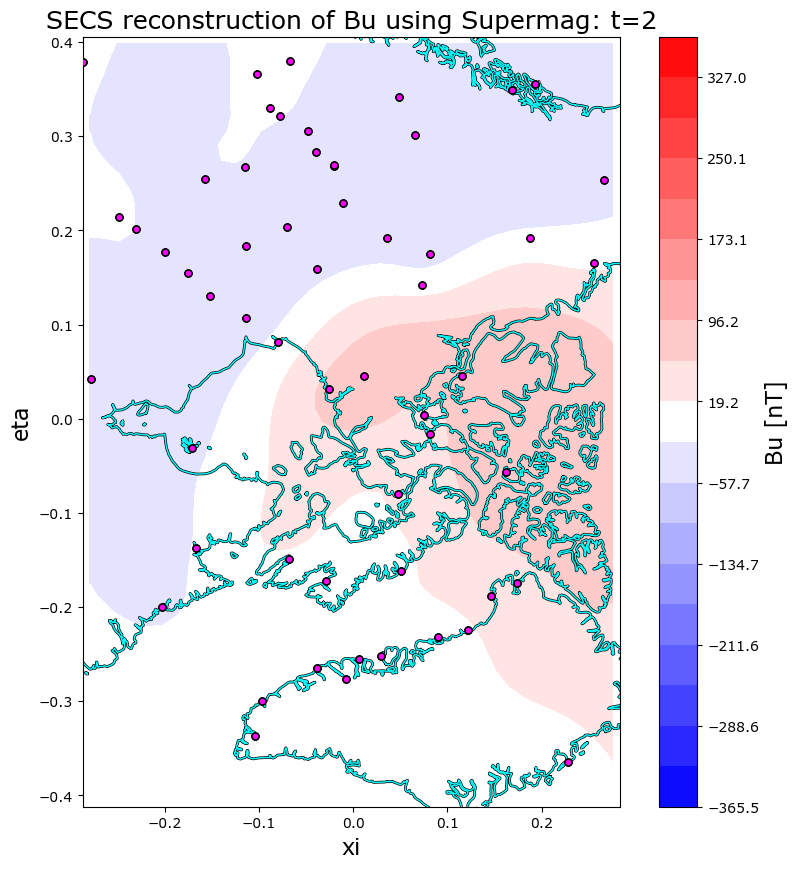
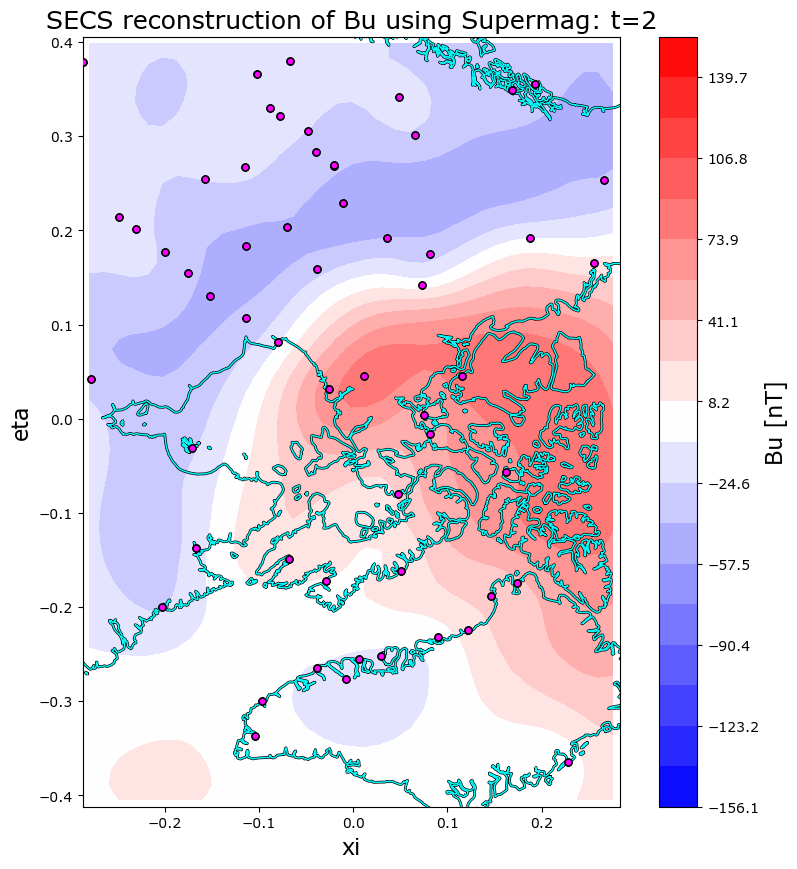
The fake induction approahc is now finished. I find it strange. First a SECS fit, then adding the predicted dBdt

diff --git a/dBdt_window_smoother_test.py b/dBdt_window_smoother_test.py
@@ -74,7 +74,7 @@ ampere    = pd.read_hdf(iridiumfn)
 supermag  = pd.read_hdf(supermagfn)
 superdarn = pd.read_hdf(superdarnfn)
 
-times = pd.date_range('2012-04-05 00:00', '2012-04-05 23:59', freq = '3Min')[:100] # Limiting testing to the first 100, instead of all 480 times
+times = pd.date_range('2012-04-05 00:00', '2012-04-05 23:59', freq = '3Min')[:20] # Limiting testing to the first 100, instead of all 480 times
 DT    = timedelta(seconds = 2 * 60) # will select data from +- DT
 
 #%% Define grid
@@ -195,53 +195,57 @@ for i, t in tqdm(enumerate(times), total=times.size):
 
 #%% Step 3: E induction
 
-# Something with window size
-# Loop over time while sliding window
+w_size = 3
+ms = np.zeros((grid.xi_mesh.size, times.size))
 
+for i, t in tqdm(enumerate(times), total=times.size):
     
-#%% Combine steady-state stuff
-
-G_ss = scipy.linalg.block_diag(*Gs)
-d_ss = np.hstack(ds)
-w_ss = np.hstack(ws)
-
-#%% Combine temporal stuff
-
-for i in range(len(GsBu)-1):
-    G_bs_i = np.zeros((grid.size, grid.xi_mesh.size*(times.size)))
-
-    G_bs_i[:, i*grid.xi_mesh.size:(i+1)*grid.xi_mesh.size] = -1*GsBu[i]
-    try:
-        G_bs_i[:, (i+1)*grid.xi_mesh.size:(i+2)*grid.xi_mesh.size] = GsBu[i+1]
-    except:
-        G_bs_i[:, (i+1)*grid.xi_mesh.size:] = GsBu[i+1]
+    j_mid = w_size + 0 # The window is 2*w_size+1 wide.
     
-    if i == 0:
-        G_bs = G_bs_i + 0
-    else:
-        G_bs = np.vstack((G_bs, G_bs_i))
+    i_start = i - w_size # The first timestep 
+    i_stop = i + w_size # The last timestep
+    
+    # Ensure first timestep cannot be smaller than 0
+    if i_start < 0:
+        j_mid += i_start # If, e.g., -1 set to 0 and move j_mid down by 1.
+        i_start = 0
+    
+    # Ensure last timestep does not exceed times.size-1.
+    if i_stop > (times.size-1):
+        j_mid -= i_stop - times.size-1 # If, e.g., 2 over max set to max and move j_mid down by 2.
+        i_stop = times.size-1 # 1 is added later as last index is exclusive. Silly Python.
+    
+    nt = i_stop-i_start+1 # Number of timesteps included in this window
+    
+    # Generate matrices - Steady state
+    G_ss = scipy.linalg.block_diag(*Gs[i_start:i_stop+1])
+    d_ss = np.hstack(ds[i_start:i_stop+1])
+    w_ss = np.hstack(ws[i_start:i_stop+1])
 
-d_bs = dBudt_pred.flatten()
+    # Generate matrices - Temporal
+    G_t = np.zeros(((nt-1)*grid.size, nt*grid.xi_mesh.size)) # Allocate space
+    G_t[:, 0:(nt-1)*grid.xi_mesh.size]             = - scipy.linalg.block_diag(*GsBu[i_start:i_stop])
+    G_t[:, grid.xi_mesh.size:nt*grid.xi_mesh.size] = scipy.linalg.block_diag(*GsBu[i_start+1:i_stop+1])
+    
+    d_t = dBudt_pred[:, :, i_start:i_stop].flatten()
+    
+    w_t = np.ones(d_t.size) / (1*1e-9)**2    
 
-w_bs = np.ones(d_bs.size) / (1*1e-9)**2
+    # Combine matrices
+    G = np.vstack((G_ss, G_t))
+    d = np.hstack((d_ss, d_t))
+    w = np.hstack((w_ss, w_t))
 
-#%% Combine
+    # Solve inverse problem
+    GTG = G.T.dot(np.diag(w)).dot(G)
+    GTd = G.T.dot(np.diag(w)).dot(d)
 
-G = np.vstack((G_ss, G_bs))
-d = np.hstack((d_ss, d_bs))
-w = np.hstack((w_ss, w_bs))
+    gtgmag = np.median(abs(np.diag(GTG)))
 
-#%%
-
-GTG = G.T.dot(np.diag(w)).dot(G)
-GTd = G.T.dot(np.diag(w)).dot(d)
-
-gtgmag = np.median(abs(np.diag(GTG)))
-
-m = scipy.linalg.solve(GTG + 2e0*gtgmag*np.eye(GTG.shape[0]), GTd)
-ms = m.reshape((times.size, grid.xi_mesh.size)).T
-
-#%%
+    m = scipy.linalg.solve(GTG + 2e0*gtgmag*np.eye(GTG.shape[0]), GTd)
+    ms[:, i] = m.reshape((nt, grid.xi_mesh.size)).T[:, j_mid]
+    
+#%% Step 4: Visualization
 
 Bu_org = np.zeros((grid.xi_mesh.size, times.size))
 Bu_new = np.zeros((grid.xi_mesh.size, times.size))
@@ -262,7 +266,7 @@ for i, t in tqdm(enumerate(times)):
     model.add_data(amp_data, sm_data, sd_data)
     gtg, ltl = model.run_inversion(l1 = 2, l2 = 0)
 
-    savepath = '/scratch/BCSS-DAG Dropbox/Michael Madelaire/work/projects/lompe_induction_cheat/figures/lompe/'
+    savepath = path_out + 'figures/lompe/'
     savefile = savepath + str(t).replace(' ','_').replace(':','')
     lompe.lompeplot(model, include_data = True, time = t, apex = apex, savekw = {'fname': savefile, 'dpi' : 200})
     
@@ -270,7 +274,7 @@ for i, t in tqdm(enumerate(times)):
     Bu_org[:, i] = Bu
     
     model.m = ms[:, i]
-    savepath = '/scratch/BCSS-DAG Dropbox/Michael Madelaire/work/projects/lompe_induction_cheat/figures/lompe_dbdt/'
+    savepath = path_out + 'figures/lompe_dbdt/'
     savefile = savepath + str(t).replace(' ','_').replace(':','')
     lompe.lompeplot(model, include_data = True, time = t, apex = apex, savekw = {'fname': savefile, 'dpi' : 200})
     
@@ -287,13 +291,11 @@ dBu_new = np.zeros((Bu_org.shape[0], Bu_org.shape[1]-1))
 for i in range(dBu_org.shape[1]):
     dBu_org[:, i] = Bu_org[:, i+1] - Bu_org[:, i]
     dBu_new[:, i] = Bu_new[:, i+1] - Bu_new[:, i]
-#dBu_org = np.diff(Bu_org, axis=1)
-#dBu_new = np.diff(Bu_new, axis=1)
 
 vmax = np.max(abs(np.vstack((dBu_org, dBu_new))))
 vmax = np.max([vmax, np.max(abs(dBudt_pred))])
 
-clvls = 10**np.linspace(-vmax, vmax, 40)
+clvls = np.linspace(-vmax, vmax, 40)
 
 plt.ioff()
 for i in range(times.size-1):
@@ -301,170 +303,22 @@ for i in range(times.size-1):
     axs[0].contourf(grid.xi_mesh, grid.eta_mesh, dBu_org[:, i].reshape(grid.xi_mesh.shape), levels=clvls, cmap='bwr')
     axs[1].contourf(grid.xi_mesh, grid.eta_mesh, dBu_new[:, i].reshape(grid.xi_mesh.shape), levels=clvls, cmap='bwr')
     axs[2].contourf(grid.xi, grid.eta, dBudt_pred[:, :, i], levels=clvls, cmap='bwr')
-    plt.savefig('/scratch/BCSS-DAG Dropbox/Michael Madelaire/work/temp_storage/dBu_comp/{}.png'.format(i), bbox_inches='tight')
+    plt.savefig(path_out + 'figures/dBu_comp/{}.png'.format(i), bbox_inches='tight')
     plt.close('all')
 plt.ion()
 
 #%%
-'''
-#%%
-plt.ioff()
-
-conductance_functions = True
-
-event = '2012-04-05'
-savepath = '/scratch/BCSS-DAG Dropbox/Michael Madelaire/work/projects/lompe_induction_cheat/figures/'
-apex = apexpy.Apex(int(event[0:4]), refh = 110)
-
-supermagfn = '/scratch/BCSS-DAG Dropbox/Michael Madelaire/work/code/standard_lompe/lompe/examples/sample_dataset/20120405_supermag.h5'
-superdarnfn = '/scratch/BCSS-DAG Dropbox/Michael Madelaire/work/code/standard_lompe/lompe/examples/sample_dataset/20120405_superdarn_grdmap.h5'
-iridiumfn = '/scratch/BCSS-DAG Dropbox/Michael Madelaire/work/code/standard_lompe/lompe/examples/sample_dataset/20120405_iridium.h5'
-
-# set up grid
-position = (-90, 65) # lon, lat
-orientation = (-1, 2) # east, north
-L, W, Lres, Wres = 4200e3, 7000e3, 100.e3, 100.e3 # dimensions and resolution of grid
-grid = lompe.cs.CSgrid(lompe.cs.CSprojection(position, orientation), L, W, Lres, Wres, R = 6481.2e3)
-
-# load ampere, supermag, and superdarn data from 2012-05-05
-ampere    = pd.read_hdf(iridiumfn)
-supermag  = pd.read_hdf(supermagfn)
-superdarn = pd.read_hdf(superdarnfn)
-
-# these files contain entire day. Function to select from a smaller time interval is needed:
-def prepare_data(t0, t1):
-    """ get data from correct time period """
-    # prepare ampere
-    amp = ampere[(ampere.time >= t0) & (ampere.time <= t1)]
-    B = np.vstack((amp.B_e.values, amp.B_n.values, amp.B_r.values))
-    coords = np.vstack((amp.lon.values, amp.lat.values, amp.r.values))
-    amp_data = lompe.Data(B * 1e-9, coords, datatype = 'space_mag_fac', error = 30e-9, iweight=1.0)
-
-    # prepare supermag
-    sm = supermag[t0:t1]
-    B = np.vstack((sm.Be.values, sm.Bn.values, sm.Bu.values))
-    coords = np.vstack((sm.lon.values, sm.lat.values))
-    sm_data = lompe.Data(B * 1e-9, coords, datatype = 'ground_mag', error = 10e-9, iweight=0.4)
-
-    # prepare superdarn
-    sd = superdarn.loc[(superdarn.index >= t0) & (superdarn.index <= t1)]
-    vlos = sd['vlos'].values
-    coords = np.vstack((sd['glon'].values, sd['glat'].values))
-    los  = np.vstack((sd['le'].values, sd['ln'].values))
-    sd_data = lompe.Data(vlos, coordinates = coords, LOS = los, datatype = 'convection', error = 50, iweight=1.0)
-    
-    return amp_data, sm_data, sd_data
-
-# get figures from entire day and save somewhere
-
-# times during entire day
-times = pd.date_range('2012-04-05 00:00', '2012-04-05 23:59', freq = '3Min')
-DT = timedelta(seconds = 2 * 60) # will select data from +- DT
-
-
-Kp = 4 # for Hardy conductance model
-SH = lambda lon = grid.lon, lat = grid.lat: hardy_EUV(lon, lat, 5, times[0], 'hall'    )
-SP = lambda lon = grid.lon, lat = grid.lat: hardy_EUV(lon, lat, 5, times[0], 'pedersen')
-model = lompe.Emodel(grid, Hall_Pedersen_conductance = (SH, SP))
-
-
-    
-# loop through times and save
-for t in times[1:]:
-    print(t)
-    
-    SH = lambda lon = grid.lon, lat = grid.lat: hardy_EUV(lon, lat, 5, t, 'hall'    )
-    SP = lambda lon = grid.lon, lat = grid.lat: hardy_EUV(lon, lat, 5, t, 'pedersen')
-
-    model.clear_model(Hall_Pedersen_conductance = (SH, SP)) # reset
-    
-    amp_data, sm_data, sd_data = prepare_data(t - DT, t + DT)
-    
-    model.add_data(amp_data, sm_data, sd_data)
-
-    gtg, ltl = model.run_inversion(l1 = 2, l2 = 0)
-    
-    savefile = savepath + str(t).replace(' ','_').replace(':','')
-    lompe.lompeplot(model, include_data = True, time = t, apex = apex, savekw = {'fname': savefile, 'dpi' : 200})
-
-#%% Only SECS
 
 plt.ioff()
+fig, axs = plt.subplots(4, 2, figsize=(10,15))
 
-conductance_functions = True
+for (ax, row, col) in zip(axs.flatten(),
+                          [12, 12, 24, 24, 36, 36, 48, 48],
+                          [12, 25, 12, 25, 12, 25, 12, 25]):
+    ax.plot(times[:-1], dBu_org[row*37+col, :]*1e9)
+    ax.plot(times[:-1], dBu_new[row*37+col, :]*1e9)
+    ax.plot(times[:-1], dBudt_pred[row, col, :]*1e9)
 
-event = '2012-04-05'
-savepath = '/scratch/BCSS-DAG Dropbox/Michael Madelaire/work/projects/lompe_induction_cheat/figures/'
-apex = apexpy.Apex(int(event[0:4]), refh = 110)
-
-supermagfn = '/scratch/BCSS-DAG Dropbox/Michael Madelaire/work/code/standard_lompe/lompe/examples/sample_dataset/20120405_supermag.h5'
-superdarnfn = '/scratch/BCSS-DAG Dropbox/Michael Madelaire/work/code/standard_lompe/lompe/examples/sample_dataset/20120405_superdarn_grdmap.h5'
-iridiumfn = '/scratch/BCSS-DAG Dropbox/Michael Madelaire/work/code/standard_lompe/lompe/examples/sample_dataset/20120405_iridium.h5'
-
-# set up grid
-position = (-90, 65) # lon, lat
-orientation = (-1, 2) # east, north
-L, W, Lres, Wres = 4200e3, 7000e3, 100.e3, 100.e3 # dimensions and resolution of grid
-grid = lompe.cs.CSgrid(lompe.cs.CSprojection(position, orientation), L, W, Lres, Wres, R = 6481.2e3)
-
-# load ampere, supermag, and superdarn data from 2012-05-05
-ampere    = pd.read_hdf(iridiumfn)
-supermag  = pd.read_hdf(supermagfn)
-superdarn = pd.read_hdf(superdarnfn)
-
-# these files contain entire day. Function to select from a smaller time interval is needed:
-def prepare_data(t0, t1):
-    """ get data from correct time period """
-    # prepare ampere
-    amp = ampere[(ampere.time >= t0) & (ampere.time <= t1)]
-    B = np.vstack((amp.B_e.values, amp.B_n.values, amp.B_r.values))
-    coords = np.vstack((amp.lon.values, amp.lat.values, amp.r.values))
-    amp_data = lompe.Data(B * 1e-9, coords, datatype = 'space_mag_fac', error = 30e-9, iweight=1.0)
-
-    # prepare supermag
-    sm = supermag[t0:t1]
-    B = np.vstack((sm.Be.values, sm.Bn.values, sm.Bu.values))
-    coords = np.vstack((sm.lon.values, sm.lat.values))
-    sm_data = lompe.Data(B * 1e-9, coords, datatype = 'ground_mag', error = 10e-9, iweight=0.4)
-
-    # prepare superdarn
-    sd = superdarn.loc[(superdarn.index >= t0) & (superdarn.index <= t1)]
-    vlos = sd['vlos'].values
-    coords = np.vstack((sd['glon'].values, sd['glat'].values))
-    los  = np.vstack((sd['le'].values, sd['ln'].values))
-    sd_data = lompe.Data(vlos, coordinates = coords, LOS = los, datatype = 'convection', error = 50, iweight=1.0)
-    
-    return amp_data, sm_data, sd_data
-
-# get figures from entire day and save somewhere
-
-# times during entire day
-times = pd.date_range('2012-04-05 00:00', '2012-04-05 23:59', freq = '3Min')
-DT = timedelta(seconds = 2 * 60) # will select data from +- DT
-
-
-Kp = 4 # for Hardy conductance model
-SH = lambda lon = grid.lon, lat = grid.lat: hardy_EUV(lon, lat, 5, times[0], 'hall'    )
-SP = lambda lon = grid.lon, lat = grid.lat: hardy_EUV(lon, lat, 5, times[0], 'pedersen')
-model = lompe.Emodel(grid, Hall_Pedersen_conductance = (SH, SP))
-
-
-    
-# loop through times and save
-for t in times[1:]:
-    print(t)
-    
-    SH = lambda lon = grid.lon, lat = grid.lat: hardy_EUV(lon, lat, 5, t, 'hall'    )
-    SP = lambda lon = grid.lon, lat = grid.lat: hardy_EUV(lon, lat, 5, t, 'pedersen')
-
-    model.clear_model(Hall_Pedersen_conductance = (SH, SP)) # reset
-    
-    amp_data, sm_data, sd_data = prepare_data(t - DT, t + DT)
-    
-    model.add_data(amp_data, sm_data, sd_data)
-
-    gtg, ltl = model.run_inversion(l1 = 2, l2 = 0)
-    
-    savefile = savepath + str(t).replace(' ','_').replace(':','')
-    lompe.lompeplot(model, include_data = True, time = t, apex = apex, savekw = {'fname': savefile, 'dpi' : 200})
-'''
+plt.savefig(path_out + 'figures/time_series_comparison.png', bbox_inches='tight')
+plt.close('all')
+plt.ion()
